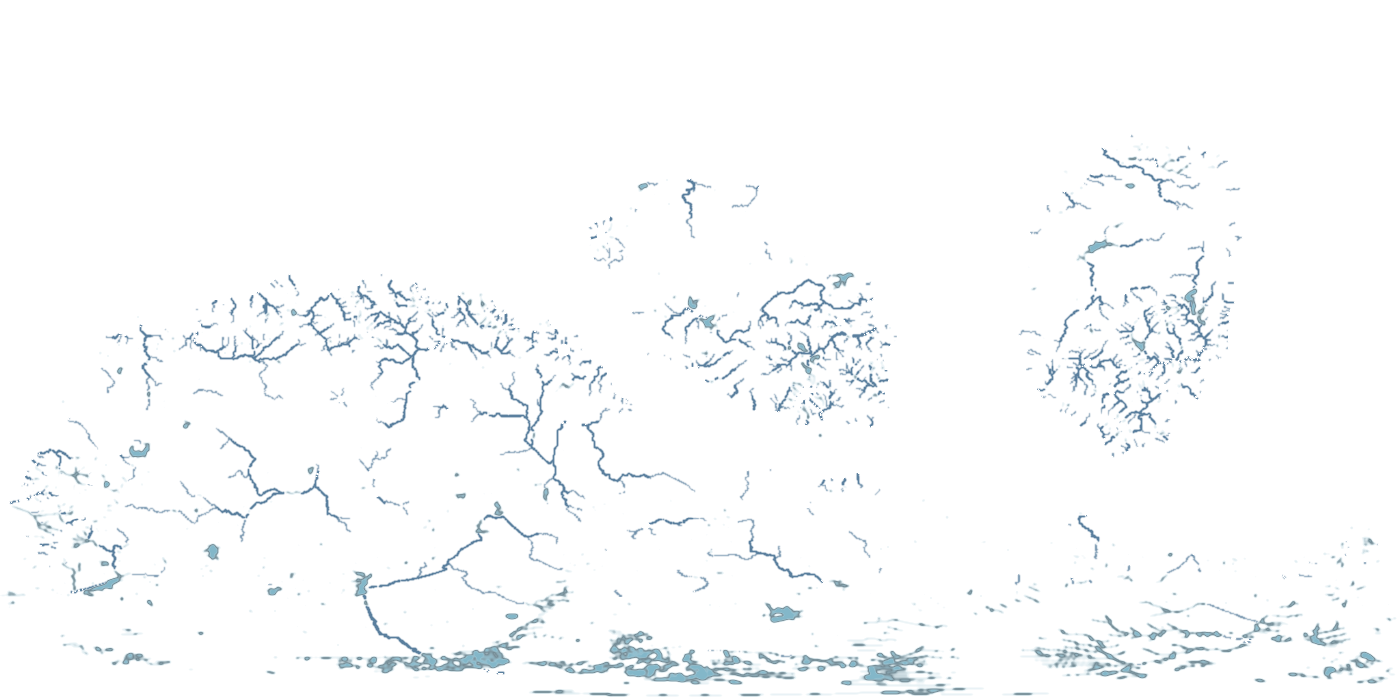
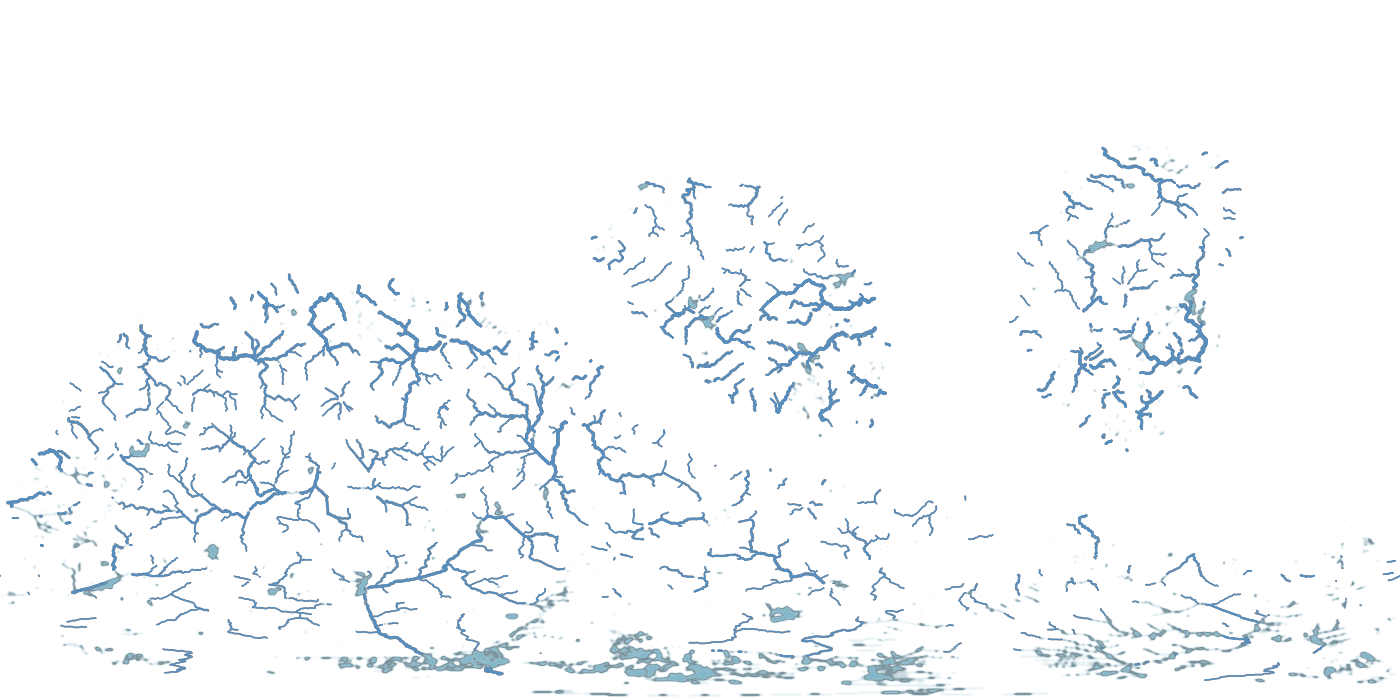
川を作り直し: PWGの川の網(合流・下流ほど太い・海か湖で終わる)で球体2世界に描く
Claude-Session: https://claude.ai/code/session_01NNF75WtqSrNc5QxPaYtfZJ

diff --git a/docs/apps/fantasy-war/mapstyle/tools/pwg_sphere_probe3.ts b/docs/apps/fantasy-war/mapstyle/tools/pwg_sphere_probe3.ts
@@ -1,0 +1,30 @@
+// 球体の世界を作り、全周を緯度経度の長方形(1400×700)に展開して書き出す検証用。
+import { writeFileSync } from 'node:fs';
+import { Pipeline } from '../src/gen/pipeline';
+import { STAGES } from '../src/gen/stages';
+import { resolve } from '../src/shared/config/resolve';
+import { dirToCell, latLonDir, surfaceLatLon } from '../src/shared/cube';
+const seed = Number(process.argv[2]); const pins = JSON.parse(process.argv[3] || '{}'); const out = process.argv[4];
+const resolved = resolve({ seed, archetype: 'earth', pins: { worldShape: 'sphere', ...pins } } as any);
+const t0 = Date.now(); const p = new Pipeline(STAGES); let err = '';
+await p.run(resolved, 'build', 1, (m: any) => { if (m.type === 'error') err = m.message; }, () => false);
+if (err) throw new Error(err);
+const hy: any = p.output('hydro')!.extra, bi: any = p.output('biome')!.extra, n = hy.n;
+const W = 1400, H = 700, el = new Float32Array(W * H), bio = new Uint8Array(W * H), wc = new Uint8Array(W * H); const d = new Float64Array(3);
+for (let y = 0; y < H; y++) for (let x = 0; x < W; x++) { latLonDir(90 - (y + .5) * 180 / H, (x + .5) * 360 / W - 180, d); const c = dirToCell(d[0], d[1], d[2], n); el[y * W + x] = hy.elevation[c]; bio[y * W + x] = bi.biome[c]; wc[y * W + x] = hy.waterClass[c]; }
+const w = (nm: string, a: ArrayBufferView) => writeFileSync(`${out}_${nm}.bin`, Buffer.from(a.buffer, a.byteOffset, a.byteLength));
+w('elev', el); w('biome', bio); w('water', wc);
+
+// 川・湖: 細い川を拾えるよう縦横2倍(2800x1400)で標本を取る。流量は川のセルだけ大きいので、後で2x2の最大値にまとめる
+const W2 = 2800, H2 = 1400, dis = new Float32Array(W2 * H2), lk = new Int32Array(W2 * H2); const d2 = new Float64Array(3);
+for (let y = 0; y < H2; y++) for (let x = 0; x < W2; x++) { latLonDir(90 - (y + .5) * 180 / H2, (x + .5) * 360 / W2 - 180, d2); const c = dirToCell(d2[0], d2[1], d2[2], n); dis[y * W2 + x] = hy.discharge[c]; lk[y * W2 + x] = hy.lakeId[c]; }
+w('disch', dis); w('lake', lk);
+
+// 川の線データ(PWGの川の網: 蛇行・合流・三角州つき)。節点の緯度経度・幅・流量・ストラーラー順位・下流の節点
+const rg: any = p.output('hydro')!.vectors!.rivers; const radiusM = hy.cellKm * 1000 * n * 2 / Math.PI; const ll = new Float64Array(2);
+const rlon = new Float32Array(rg.n), rlat = new Float32Array(rg.n);
+for (let i = 0; i < rg.n; i++) { surfaceLatLon(rg.face[i], rg.x[i], rg.y[i], radiusM, ll); rlat[i] = ll[0]; rlon[i] = ll[1]; }
+w('rlon', rlon); w('rlat', rlat); w('rq', rg.q); w('rwidth', rg.width); w('rstr', rg.strahler); w('rdown', rg.down); w('rflags', rg.flags);
+console.log(JSON.stringify({ riverNodes: rg.n, reaches: rg.reachStart.length, maxStrahler: Math.max(...rg.strahler) }));
+let land = 0; for (let i = 0; i < wc.length; i++) if (wc[i] !== 0) land++;
+console.log(JSON.stringify({ seed, n, W, H, ms: Date.now() - t0, planetKm: resolved.values.planetSize, landFracEquirect: +(land / wc.length).toFixed(3), values: { landFraction: resolved.values.landFraction, continentCount: resolved.values.continentCount } }));

diff --git a/docs/apps/fantasy-war/mapstyle/tools/water_layer.py b/docs/apps/fantasy-war/mapstyle/tools/water_layer.py
@@ -1,4 +1,6 @@
-# 川と湖を、地図と同じ位置(UV同位置)の透明な層(RGBA)にする。川=流量の対数で太さ、湖=青灰の面+細い墨の縁。山の上には描かない。
+# 川と湖を、地図と同じ位置(UV同位置)の透明な層(RGBA)にする(11-22 21:30 改)。
+# 川=PWGの川の網(蛇行・合流・三角州つきの線データ)を線で描く。支流が本流へ合流し、下流ほど太くなる(流量の対数で太さ)=ファンタジー地図の川の約束。
+# 描き方: 墨色のふち(薄い)+青の川筋。山の稜線の雪の上には描かない(源流は山の中腹から出す)。湖=青灰の面+細い墨の縁。
 import numpy as np, cv2
 from scipy import ndimage as ndi
 
@@ -7,24 +9,50 @@ def over(rgb, a, col, b):
     out = (np.array(col, np.float32) * b[..., None] + rgb * (a * (1 - b))[..., None]) / np.maximum(oa, 1e-6)[..., None]
     return out, oa
 
-def make(D, lake, land0, H, out, seed=1, qpct=97.0, S=3):
-    H0, W0 = D.shape
+def load_graph(pre):
+    g = {k: np.fromfile(f'{pre}_{k}.bin', t) for k, t in [('rlon', np.float32), ('rlat', np.float32), ('rq', np.float32), ('rstr', np.uint8), ('rdown', np.int32)]}
+    return g
+
+def river_masks(g, W0, H0, shift, H, min_order=3, S=4, wet=None):
+    """川の線を W0xH0 の S倍の細かさで描き、(ふち, 川筋)の2枚の濃さ(0〜1)を返す。"""
+    lon, lat, q, st, dn = g['rlon'], g['rlat'], g['rq'], g['rstr'], g['rdown']
+    x = (((lon + 180) / 360 * W0 + shift) % W0).astype(np.float32); y = ((90 - lat) / 180 * H0).astype(np.float32)
+    n = len(dn); root = np.where(dn >= 0, dn, np.arange(n))
+    for _ in range(30): root = root[root]                              # 各節点が最後に行き着く節点(川口)
+    reach = np.ones(n, bool)
+    if wet is not None:                                                # 海か湖に注ぐ川だけ描く(途中で消える川は描かない=ファンタジー地図の約束)
+        near = ndi.binary_dilation(wet, iterations=3)
+        reach = near[np.clip(y[root].astype(int), 0, H0 - 1), np.clip(x[root].astype(int), 0, W0 - 1)]
+    ok = (dn >= 0) & (st >= min_order) & reach; ok &= (dn != np.arange(n))
+    i = np.nonzero(ok)[0]; j = dn[i]
+    keep = (np.abs(x[i] - x[j]) < W0 / 2) & (st[j] >= min_order)         # 左右の端をまたぐ線・下流が小さい支流の端は描かない
+    i, j = i[keep], j[keep]
+    wpx = np.clip(0.55 + 1.0 * np.log10(np.maximum(q, 30) / 30), 0.55, 3.2)   # 下流ほど太く(1400幅で0.55〜3.2画素。縮尺どおりでなく見やすさ優先)
+    # 山の雪の上は消す(源流は山の中腹から)。高さ78で薄れ92で消える
+    hh = H[np.clip(y[i].astype(int), 0, H0 - 1), np.clip(x[i].astype(int), 0, W0 - 1)]
+    vis = 1 - np.clip((hh - 78) / 14, 0, 1)
+    ink = np.zeros((H0 * S, W0 * S), np.float32); fill = np.zeros_like(ink)
+    order = np.argsort(wpx[i])                                          # 細い線を先に、太い本流を後に描く
+    for k in order:
+        if vis[k] < 0.3: continue
+        a, b = i[k], j[k]; p0 = (int(round(x[a] * S)), int(round(y[a] * S))); p1 = (int(round(x[b] * S)), int(round(y[b] * S)))
+        w = float(wpx[b]) * float(vis[k])                               # 太さは下流側の節点で決める=なめらかに太る
+        cv2.line(ink, p0, p1, 1.0, max(1, int(round((w + 0.8) * S))), cv2.LINE_AA)
+        cv2.line(fill, p0, p1, 1.0, max(1, int(round(w * S))), cv2.LINE_AA)
+    ink = cv2.resize(ink, (W0, H0), interpolation=cv2.INTER_AREA); fill = cv2.resize(fill, (W0, H0), interpolation=cv2.INTER_AREA)
+    return np.clip(ink * 1.5, 0, 1), np.clip(fill * 1.8, 0, 1)
+
+def make(g, lake, land0, H, out, shift, seed=1, min_order=int(__import__('os').environ.get('RIV_ORD', '4'))):
+    H0, W0 = H.shape
     lkz = cv2.GaussianBlur(lake.astype(np.float32), (0, 0), 1.5)
     lki = np.clip(lkz * 1.6 - 0.25, 0, 1); ring = np.clip(1 - np.abs(lkz - 0.5) * 5, 0, 1)
-    ok = land0 & ~ndi.binary_dilation(lake, iterations=1)
-    qmin = float(np.percentile(D[ok & (D > 0)], qpct)); qmax = float(D[ok].max())
-    ys, xs = np.nonzero(ok & (D >= qmin))
-    lq = np.log10(D[ys, xs] / qmin) / max(np.log10(max(qmax, qmin * 10) / qmin), 1e-3)
-    rvc = np.zeros((H0 * S, W0 * S), np.float32)
-    for y, x, t in zip(ys, xs, lq):
-        cv2.circle(rvc, (int(x * S + S // 2), int(y * S + S // 2)), int(round((0.45 + 1.15 * t ** 0.7) * S / 2 + 0.3)), 1.0, -1, cv2.LINE_AA)
-    rvc = cv2.GaussianBlur(rvc, (0, 0), 1.6 * S / 3); rvc = np.clip(rvc * 1.6, 0, 1)
-    rv = cv2.resize(rvc, (W0, H0), interpolation=cv2.INTER_AREA) * (land0 | lake)
-    hi = np.clip((H - 48.0) / 12, 0, 1); rv = rv * (1 - hi) * (1 - lki)       # 山の上・湖の中には描かない
+    ink, fill = river_masks(g, W0, H0, shift, H, min_order, wet=(~land0) | lake)
+    ink *= (1 - lki); fill *= (1 - lki)
     rgb = np.zeros((H0, W0, 3), np.float32); a = np.zeros((H0, W0), np.float32)
     rgb, a = over(rgb, a, (120, 176, 196), 0.92 * lki)
     rgb, a = over(rgb, a, (70, 90, 100), 0.6 * ring * (lkz > 0.05))
-    rgb, a = over(rgb, a, (60, 104, 140), 0.85 * rv)
+    rgb, a = over(rgb, a, (52, 66, 84), 0.55 * ink)                     # 墨色のふち
+    rgb, a = over(rgb, a, (84, 142, 190), 0.95 * fill)                  # 青の川筋
     O = np.dstack([rgb[..., ::-1], a * 255]).astype(np.uint8)       # BGRA
     cv2.imwrite(out, O)
-    return {'川の画素': int((rv > 0.3).sum()), '湖の画素': int(lki.__gt__(0.5).sum()), '川のしきい値(流量)': round(qmin, 3), '最大': round(qmax, 1)}
+    return {'川の線の画素': int((fill > 0.3).sum()), '湖の画素': int((lki > 0.5).sum()), '最小の順位': min_order}

diff --git a/docs/apps/fantasy-war/mapstyle/tools/pwg_sphere_convert.py b/docs/apps/fantasy-war/mapstyle/tools/pwg_sphere_convert.py
@@ -17,6 +17,8 @@ def main(pre, outdir, name, seed=1):
     print('切れ目の列', cut_col, '端の陸(中緯度・画素)', int(((el[100:600, 0] > 0) & (wa[100:600, 0] != 2)).sum()), '(元の最大', int(col.max()), '平均', round(float(col.mean()), 1), ')')
     lake = (wa == 2)
     D = None
+    G = None
+    if os.path.exists(pre + '_rlon.bin'): import water_layer; G = water_layer.load_graph(pre)
     if os.path.exists(pre + '_disch.bin'):     # 川・湖(pwg_sphere_probe2.ts の出力。2800x1400で標本→2x2の最大値)
         D = np.fromfile(pre + '_disch.bin', np.float32).reshape(2 * Hh, 2 * W).reshape(Hh, 2, W, 2).max(axis=(1, 3))
         LK = (np.fromfile(pre + '_lake.bin', np.int32).reshape(2 * Hh, 2 * W) >= 0).reshape(Hh, 2, W, 2).max(axis=(1, 3))
@@ -40,7 +42,7 @@ def main(pre, outdir, name, seed=1):
     os.environ['FM_LP_UV'] = '1'; os.environ['FM_LP_DUMP'] = name
     if D is not None:
         import water_layer
-        ov = outdir + '/water-layer.png'; print(water_layer.make(D, lake, land0, H, ov, seed)); os.environ['FM_LP_OVERLAY'] = ov
+        ov = outdir + '/water-layer.png'; print(water_layer.make(G, lake, land0, H, ov, shift, seed)); os.environ['FM_LP_OVERLAY'] = ov
     import lowpoly
     img = np.zeros((Hh, W, 3), np.float32) + np.array([206, 223, 235], np.float32)
     lowpoly.paint(img, H, land, BI, seed)

diff --git a/docs/apps/sekai-hex/design/STATE.md b/docs/apps/sekai-hex/design/STATE.md
@@ -199,6 +199,7 @@
 - 【指示 11-22 19:15 ユーザー】浮島の絵(8種の浮島の絵2枚)を渡し、これでローポリを作ってUVに貼って立体にして浮かせてよ、と指示。→ 実施(koutyuuzu0.html): 絵(assets/islands/ref_sheet.jpg, ref_render.jpg)の俯瞰図・底面図を切り出して1枚のテクスチャ(assets/islands/atlas.png)にまとめ、島ごとに手続きでローポリの立体を作った=不揃いな10角形の上面(絵の俯瞰図を真上からUVで貼る)/縁の土の帯/逆さの岩の下側(絵の底面図を下からUVで貼る)/雲の塊の輪/種類ごとの小物(岩峰・遺跡の柱・滝・森の木々・鉱山の尖った山と旗・集落の家と畑・水晶・城と塔)。8種を島の順に割り当て(浮島A=岩峰、B=遺跡…の順。5島なら先頭5種)。大きさは従来の当たり判定(BODY・BR)と同じ尺度にそろえ、選択時の金色・影・地面への縦線は維持。結果: 8種を近くから見て、それぞれ絵らしい上面と岩の下側が出ることを確認、エラー無し。限界: 岩峰と遺跡の上面は絵に俯瞰図が無いため別種の上面(滝・集落)で代用/UVは真上と真下からの平面貼りで、縁や岩の側面は伸びる/小物は単色の簡素な形で絵の細部(質感)は無い/島は5つなので水晶・城などは出ない/絵が粗い(1枚から切り出し)ので貼ると少しぼやける/回転3D全体での遠目の見え方は、島が小さく見分けにくい/iPhone未測定。次の一手: 回転3D表示で島を拡大して、形と絵の貼り方を見て、直したい種類を一言。
 - 【依頼 11-22 19:40 ユーザー】現在の異世界ファンタジー地図の評価を、ハブを基本として行なってほしい。→ 実施(私の評価・ユーザーの評価ではない。基準=カード6B/6A/6F/6G と 11-22 04:27 の最終版の定義): 総評=『地球の地図としては良い。異世界の地図としてはまだ』。①世界を作る基準(6B 陸4〜6割・大陸3つ・端は海): 球体PWG(seed31・32)は陸約52%・大陸3つで達成。極(上下端)の陸の帯は未解決。PWG5の5世界は陸が中央の正方形に収まり、上下端で切れる(3D表示で目視確認)=基準の見た目は未達。②絵の描き方(6A ローポリ+面ごとUV+森の層): PWG5は『良かった』(11-21 09:26 ユーザー評価)。球体は山が針のように尖り岩色が目立ち、森なし(目視)。③足す要素(6F・最終版): 森=PWG5のみ○、川=未、地脈=見せ方未定で消してある、方位・縮尺・地名・都市=未。最終版の3要素(森・川・地脈)のうち、いま出ているのは森だけ。④異世界らしさ(6G・⓪): 3D世界表示には魔力・魔力だまり(巣・大都会)・浮島・気流・禁域・龍種が一つも載っていない。それらは航宙図(別)にあり、世界地図との二面図(11-21 22:52 の約束)は上面図の重ね表示のみで、3D世界とは未統合。⓪(異世界の定義)は未決のため二段目は着手しない約束。限界: 目視はPC画面のみ・iPhone未測定・数値化した採点ではない・私の見立て。次の一手: 魔力だまり・地脈を、確定済みの表現(地表から淡く吹き出す雪片のような光の粒)で3D世界に出す試作。
 - 【指摘・指示 11-22 19:43・19:44 ユーザー】19:43『川作ったじゃん。おかしいんじゃないの?』(私が『川は未実装』と言い切ったことへ)。19:44『川、湖を先に作って』。→ 訂正: 川は11-20に2Dの地図の絵(mapstyle46)に作ってあった。足りなかったのは最終版の3D表示(world3d)に載せる絵への反映で、『未実装』は言い過ぎ。実施: 球体PWG(seed31・32。周長8192km・陸0.5・大陸3、前回と同じ世界であることを確認=標高が完全に一致)の流量と湖を、縦横2倍の細かさで取り直し(道具 mapstyle/tools/pwg_sphere_probe2.ts)、2x2の最大値にまとめて世界データの位置・左右の切れ目の回転に合わせた。川=流量の対数で太さ(陸の流量の上位約3%以上)、湖=青灰の面+細い墨の縁、山の上(高さ48超で薄れ60で消える)・湖の中には描かない(mapstyle46と同じ決め事)。透明な層(water_layer.py → mapstyle/pwgsphere/sp31・sp32/water-layer.png)にして、面ごとのUV加工の地形に貼った。湖は穴にせず、まわりの陸より少し低い湖面の面として残した。結果(実測): seed31=川の画素約2.4万・湖約1万、seed32=川約2.2万・湖約0.9万、陸の割合は湖の面を含め54%・48%。回して見る3D(world3d.html の『球体PWG 2:1』2世界)で、川が地形に沿って流れ、山あいから低地へつながり、湖が見えることを目視で確認(近づいた画面)、エラー無し。限界: PWG5の5世界(pm51〜55)には未反映=元の流量データが保存されておらず(カード6Bの『PWG元データ未保存』)、世界の作り直しが要る/川のしきい値(上位約3%)・太さ・色は mapstyle46 の値を引き継いだ私の初期値/川が海へ注ぐ河口の処理・滝・支流の太さの階層は未/湖が山の中で小さな穴のように見える所がある/球体世界に森は未搭載/PWGの川は地図の標高とは別の計算のため、一部で谷の底からずれる可能性(目視では大きなずれは見えない)/目視はPC画面のみ・iPhone未測定。次の一手: 球体の世界に森を足す(群系から)。
+- 【指示 11-22 21:16 ユーザー】『川がらしく無い。ファンタジー地図の川の書き方を勉強してから作って』。→ 調べた約束(ファンタジー地図・水系の描き方の解説より): ①源流は山の中腹から出す ②細い支流が集まって本流になり、下流ほど太い(木の形) ③合流は下流向きの浅い角度 ④途中で二股に分かれず(分かれるのは三角州だけ)、交差もしない ⑤必ず海か湖で終わる(途中で消えない) ⑥山では細く直線的、平地では蛇行 ⑦河口は扇状に広がる。前回の私の川は『流量の多い画素』を拾っただけで、細切れ・均一・つながらない絵だったのが原因。実施: PWG自身が持つ川の網(支流と本流の木・順位・流量・蛇行つきの線データ。mapstyle/tools/pwg_sphere_probe3.ts で書き出し)を使い直した。順位4以上の川だけを線で描き(順位3は多すぎ、5は途切れて少ない)、太さは流量の対数で下流ほど太く、海・湖に届かない川は描かない、雪山の上は消す(water_layer.py を全面改訂)。結果(実測): seed31=川の画素約3.0万・湖約1.0万、seed32=川約3.2万・湖約0.9万、前回(約2.4万)より線が長くつながった。目視: 平面でも3D近づき画面でも、支流が本流に合流して広がる木の形になり、前回より川らしい(エラー無し)。限界: PWGの蛇行は1400幅では1画素未満で、ほぼ直線に見える/河口の三角州の扇は未描画/太さは見やすさ優先で縮尺どおりでない/PWG5の5世界は元データ無しで未反映/森は未搭載/目視はPC画面のみ・iPhone未測定。調べた元は検索結果の一般解説で、特定の一冊の規則ではない。次の一手: 球体の世界に森を足す(群系から)。
 
 ## カード15 制作プロトコル(超基礎概念)と、このプロジェクトの作業フロー【確定(ユーザー指示 11-21)+案】
 - 適用範囲: このプロジェクト(ファンタジー世界戦争=世界ハニカム、docs/apps/fantasy-war と sekai-hex)だけ。他のアプリには適用しない。

diff --git a/docs/apps/sekai-hex/design/cards/c06g.md b/docs/apps/sekai-hex/design/cards/c06g.md
@@ -94,3 +94,4 @@
 - 【指示 11-22 19:15 ユーザー】浮島の絵(8種の浮島の絵2枚)を渡し、これでローポリを作ってUVに貼って立体にして浮かせてよ、と指示。→ 実施(koutyuuzu0.html): 絵(assets/islands/ref_sheet.jpg, ref_render.jpg)の俯瞰図・底面図を切り出して1枚のテクスチャ(assets/islands/atlas.png)にまとめ、島ごとに手続きでローポリの立体を作った=不揃いな10角形の上面(絵の俯瞰図を真上からUVで貼る)/縁の土の帯/逆さの岩の下側(絵の底面図を下からUVで貼る)/雲の塊の輪/種類ごとの小物(岩峰・遺跡の柱・滝・森の木々・鉱山の尖った山と旗・集落の家と畑・水晶・城と塔)。8種を島の順に割り当て(浮島A=岩峰、B=遺跡…の順。5島なら先頭5種)。大きさは従来の当たり判定(BODY・BR)と同じ尺度にそろえ、選択時の金色・影・地面への縦線は維持。結果: 8種を近くから見て、それぞれ絵らしい上面と岩の下側が出ることを確認、エラー無し。限界: 岩峰と遺跡の上面は絵に俯瞰図が無いため別種の上面(滝・集落)で代用/UVは真上と真下からの平面貼りで、縁や岩の側面は伸びる/小物は単色の簡素な形で絵の細部(質感)は無い/島は5つなので水晶・城などは出ない/絵が粗い(1枚から切り出し)ので貼ると少しぼやける/回転3D全体での遠目の見え方は、島が小さく見分けにくい/iPhone未測定。次の一手: 回転3D表示で島を拡大して、形と絵の貼り方を見て、直したい種類を一言。
 - 【依頼 11-22 19:40 ユーザー】現在の異世界ファンタジー地図の評価を、ハブを基本として行なってほしい。→ 実施(私の評価・ユーザーの評価ではない。基準=カード6B/6A/6F/6G と 11-22 04:27 の最終版の定義): 総評=『地球の地図としては良い。異世界の地図としてはまだ』。①世界を作る基準(6B 陸4〜6割・大陸3つ・端は海): 球体PWG(seed31・32)は陸約52%・大陸3つで達成。極(上下端)の陸の帯は未解決。PWG5の5世界は陸が中央の正方形に収まり、上下端で切れる(3D表示で目視確認)=基準の見た目は未達。②絵の描き方(6A ローポリ+面ごとUV+森の層): PWG5は『良かった』(11-21 09:26 ユーザー評価)。球体は山が針のように尖り岩色が目立ち、森なし(目視)。③足す要素(6F・最終版): 森=PWG5のみ○、川=未、地脈=見せ方未定で消してある、方位・縮尺・地名・都市=未。最終版の3要素(森・川・地脈)のうち、いま出ているのは森だけ。④異世界らしさ(6G・⓪): 3D世界表示には魔力・魔力だまり(巣・大都会)・浮島・気流・禁域・龍種が一つも載っていない。それらは航宙図(別)にあり、世界地図との二面図(11-21 22:52 の約束)は上面図の重ね表示のみで、3D世界とは未統合。⓪(異世界の定義)は未決のため二段目は着手しない約束。限界: 目視はPC画面のみ・iPhone未測定・数値化した採点ではない・私の見立て。次の一手: 魔力だまり・地脈を、確定済みの表現(地表から淡く吹き出す雪片のような光の粒)で3D世界に出す試作。
 - 【指摘・指示 11-22 19:43・19:44 ユーザー】19:43『川作ったじゃん。おかしいんじゃないの?』(私が『川は未実装』と言い切ったことへ)。19:44『川、湖を先に作って』。→ 訂正: 川は11-20に2Dの地図の絵(mapstyle46)に作ってあった。足りなかったのは最終版の3D表示(world3d)に載せる絵への反映で、『未実装』は言い過ぎ。実施: 球体PWG(seed31・32。周長8192km・陸0.5・大陸3、前回と同じ世界であることを確認=標高が完全に一致)の流量と湖を、縦横2倍の細かさで取り直し(道具 mapstyle/tools/pwg_sphere_probe2.ts)、2x2の最大値にまとめて世界データの位置・左右の切れ目の回転に合わせた。川=流量の対数で太さ(陸の流量の上位約3%以上)、湖=青灰の面+細い墨の縁、山の上(高さ48超で薄れ60で消える)・湖の中には描かない(mapstyle46と同じ決め事)。透明な層(water_layer.py → mapstyle/pwgsphere/sp31・sp32/water-layer.png)にして、面ごとのUV加工の地形に貼った。湖は穴にせず、まわりの陸より少し低い湖面の面として残した。結果(実測): seed31=川の画素約2.4万・湖約1万、seed32=川約2.2万・湖約0.9万、陸の割合は湖の面を含め54%・48%。回して見る3D(world3d.html の『球体PWG 2:1』2世界)で、川が地形に沿って流れ、山あいから低地へつながり、湖が見えることを目視で確認(近づいた画面)、エラー無し。限界: PWG5の5世界(pm51〜55)には未反映=元の流量データが保存されておらず(カード6Bの『PWG元データ未保存』)、世界の作り直しが要る/川のしきい値(上位約3%)・太さ・色は mapstyle46 の値を引き継いだ私の初期値/川が海へ注ぐ河口の処理・滝・支流の太さの階層は未/湖が山の中で小さな穴のように見える所がある/球体世界に森は未搭載/PWGの川は地図の標高とは別の計算のため、一部で谷の底からずれる可能性(目視では大きなずれは見えない)/目視はPC画面のみ・iPhone未測定。次の一手: 球体の世界に森を足す(群系から)。
+- 【指示 11-22 21:16 ユーザー】『川がらしく無い。ファンタジー地図の川の書き方を勉強してから作って』。→ 調べた約束(ファンタジー地図・水系の描き方の解説より): ①源流は山の中腹から出す ②細い支流が集まって本流になり、下流ほど太い(木の形) ③合流は下流向きの浅い角度 ④途中で二股に分かれず(分かれるのは三角州だけ)、交差もしない ⑤必ず海か湖で終わる(途中で消えない) ⑥山では細く直線的、平地では蛇行 ⑦河口は扇状に広がる。前回の私の川は『流量の多い画素』を拾っただけで、細切れ・均一・つながらない絵だったのが原因。実施: PWG自身が持つ川の網(支流と本流の木・順位・流量・蛇行つきの線データ。mapstyle/tools/pwg_sphere_probe3.ts で書き出し)を使い直した。順位4以上の川だけを線で描き(順位3は多すぎ、5は途切れて少ない)、太さは流量の対数で下流ほど太く、海・湖に届かない川は描かない、雪山の上は消す(water_layer.py を全面改訂)。結果(実測): seed31=川の画素約3.0万・湖約1.0万、seed32=川約3.2万・湖約0.9万、前回(約2.4万)より線が長くつながった。目視: 平面でも3D近づき画面でも、支流が本流に合流して広がる木の形になり、前回より川らしい(エラー無し)。限界: PWGの蛇行は1400幅では1画素未満で、ほぼ直線に見える/河口の三角州の扇は未描画/太さは見やすさ優先で縮尺どおりでない/PWG5の5世界は元データ無しで未反映/森は未搭載/目視はPC画面のみ・iPhone未測定。調べた元は検索結果の一般解説で、特定の一冊の規則ではない。次の一手: 球体の世界に森を足す(群系から)。
